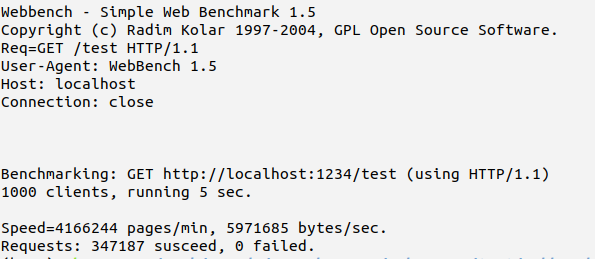
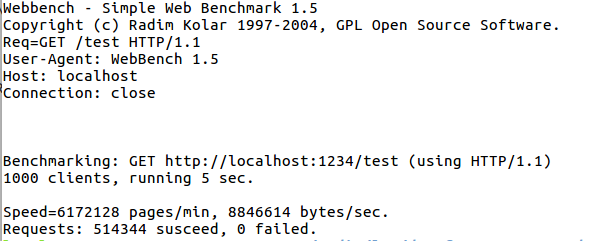
添加文档内容

diff --git a/docs/压力测试.md b/docs/压力测试.md
@@ -6,10 +6,11 @@
 
 + Ubuntu 18.04
 + 内存：8G
++ cpu:i7-8700
 
 本机环境下测试
 
-关闭日志，使用webbench模拟10000个客户端访问服务器，测试结果如下：
+关闭日志，使用webbench模拟1000个客户端访问服务器，测试结果如下：
 
 + GET方法
 
@@ -19,3 +20,4 @@
 
   ![image-20210531212536545](./imgs/post.png)
 
+GET和POST方法均超过到**十万QPS**

diff --git a/docs/数据库连接池.md b/docs/数据库连接池.md
@@ -1,0 +1,9 @@
+# 数据库连接池
+
++ 数据库连接池在初始化时将创建一定数量的数据库连接放到连接池中，以备连接数据库使用。
+
+### 实现原理：
+
++ 将初始化的数据库连接使用一个list管理
++ 多个线程互斥访问
++ 申请释放连接通过一个封装类实现，初始化对象申请连接，析构对象释放连接

diff --git a/docs/定时器.md b/docs/定时器.md
@@ -1,0 +1,2 @@
+# 定时器
+
